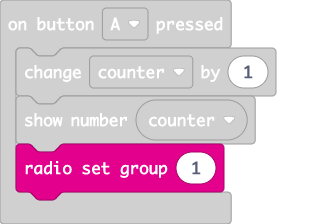
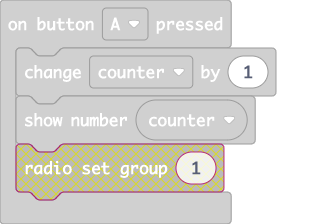
moved to java script

Changed region(s): [[0.0305, 0.625, 0.7012, 0.9062]]

diff --git a/main.ts b/main.ts
@@ -1,7 +1,6 @@
 input.onButtonPressed(Button.A, function () {
     counter += 1
     basic.showNumber(counter)
-    radio.setGroup(1)
 })
 let counter = 0
 counter = 0
